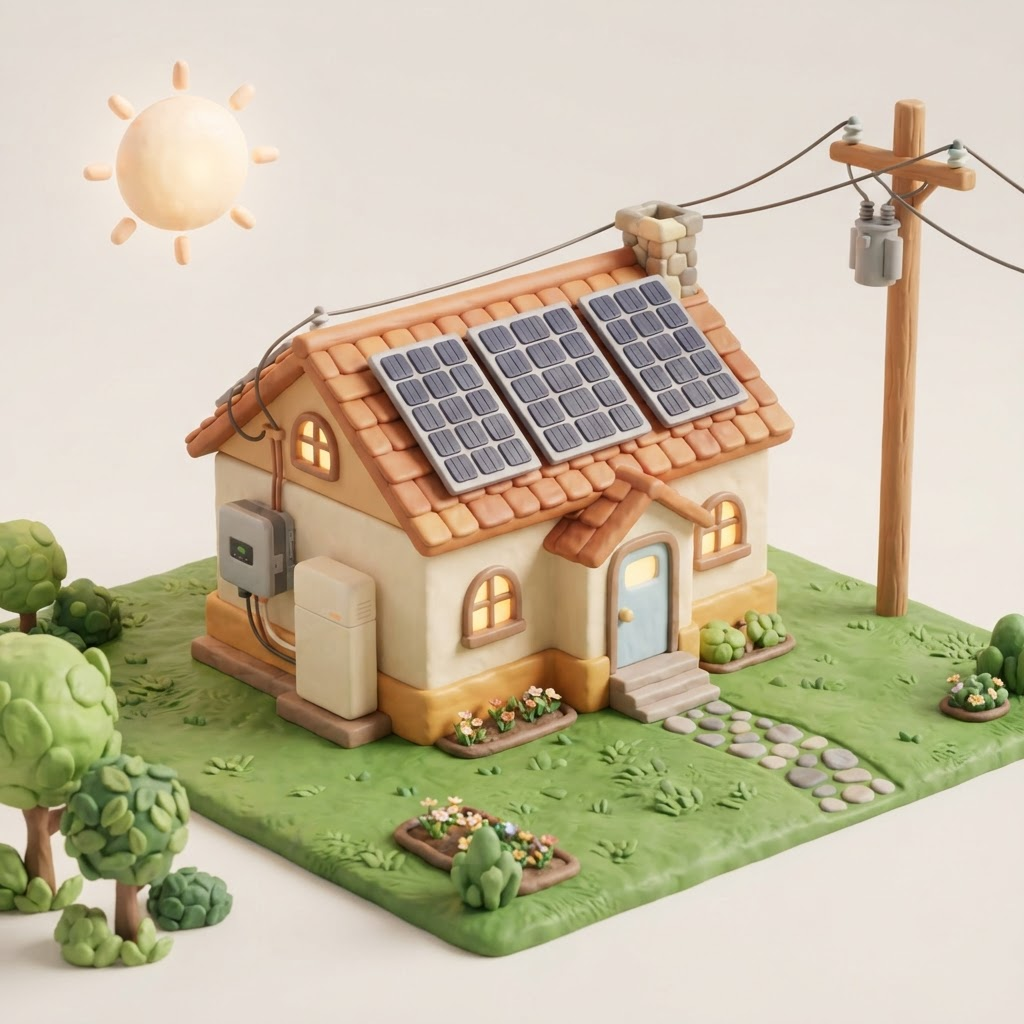
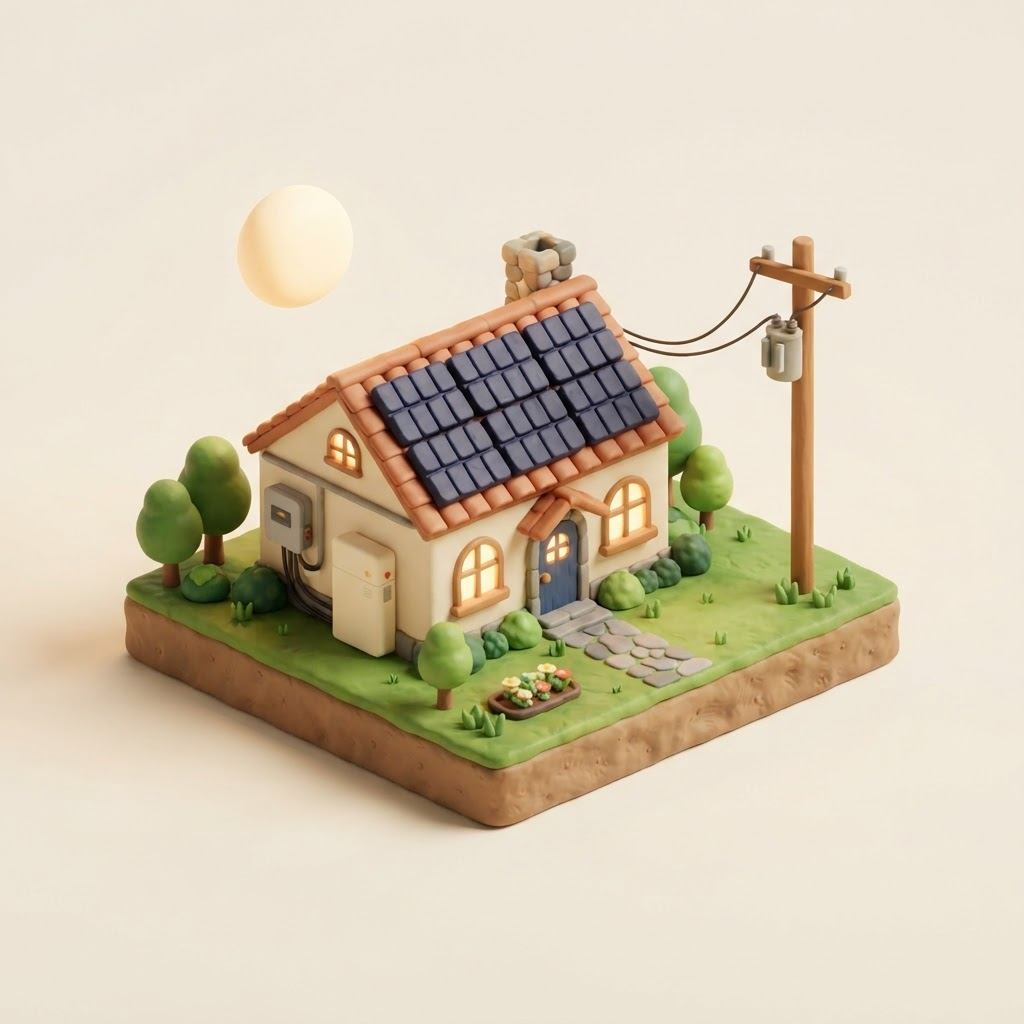
feat: adjust hotspot coordinates in solar-explorer
Updated positions for visual elements in solar-explorer component.

diff --git a/components/solar/solar-explorer.tsx b/components/solar/solar-explorer.tsx
@@ -37,12 +37,12 @@ const DIORAMA_SRC = "/solar-styles/claymation-cutout.png"
 type Hotspot = { id: ComponentId; x: number; y: number }
 
 const HOTSPOTS: Hotspot[] = [
-  { id: "sun", x: 17, y: 16 },
-  { id: "panels", x: 52, y: 40 },
-  { id: "inverter", x: 25, y: 52 },
-  { id: "battery", x: 33, y: 61 },
-  { id: "home", x: 62, y: 57 },
-  { id: "grid", x: 88, y: 24 },
+  { id: "sun", x: 29, y: 22 },
+  { id: "panels", x: 50, y: 39 },
+  { id: "home", x: 52, y: 51 },
+  { id: "inverter", x: 30, y: 52 },
+  { id: "battery", x: 36, y: 57 },
+  { id: "grid", x: 78, y: 34 },
 ]
 
 // Energy-flow segments drawn between hotspots. `key` selects the flow value on
